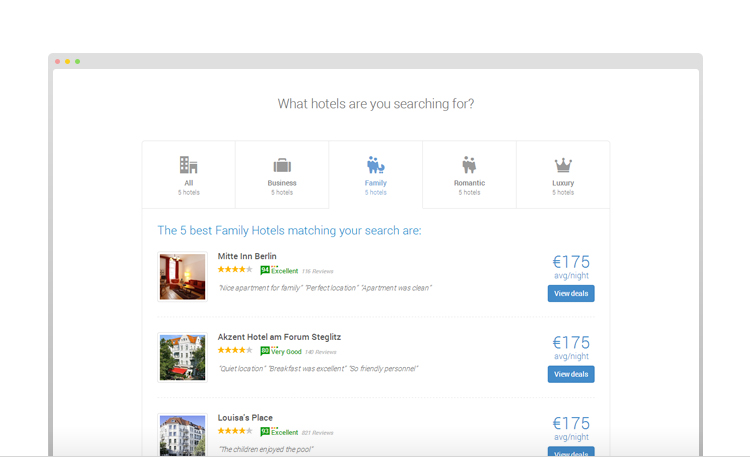
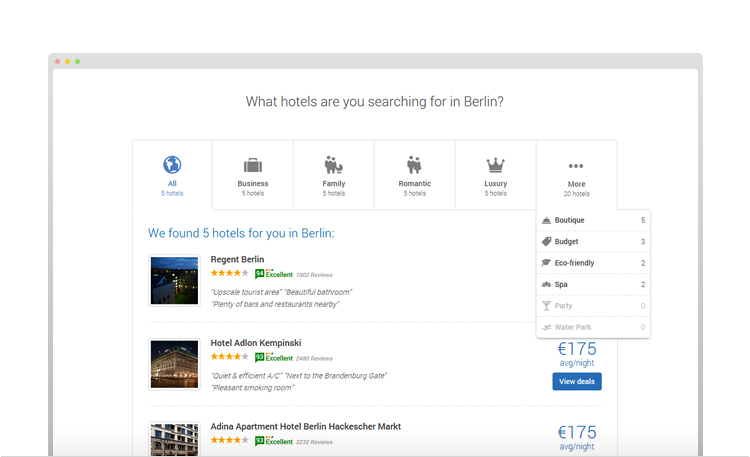
Preview image and disabled hotel types in dropdown
Updated preview image and added disabled hotel types in dropdown with
counter set to 0 (zero).

diff --git a/index.html b/index.html
@@ -128,6 +128,27 @@
 						<li>
 							<a href="#search-results-casino" data-toggle="tab"><span class="value">1</span><i class="ty-icon ty-icon-cards-full"></i> Casino</a>
 						</li>
+
+
+
+						<li class="disabled">
+							<a><span class="value">0</span><i class="ty-icon ty-icon-tree-palm"></i> Beach</a>
+						</li>
+						<li class="disabled">
+							<a><span class="value">0</span><i class="ty-icon ty-icon-golf"></i> Golf</a>
+						</li>
+						<li class="disabled">
+							<a><span class="value">0</span><i class="ty-icon ty-icon-group"></i> Resort</a>
+						</li>
+						<li class="disabled">
+							<a><span class="value">0</span><i class="ty-icon ty-icon-airplane"></i> Airport</a>
+						</li>
+						<li class="disabled">
+							<a><span class="value">0</span><i class="ty-icon ty-icon-lake-house"></i> Lake</a>
+						</li>
+						<li class="disabled">
+							<a><span class="value">0</span><i class="ty-icon ty-icon-swiming"></i> Water Park</a>
+						</li>
 					</ul>
 				</li>
 			</ul>

diff --git a/css/style.css b/css/style.css
@@ -199,6 +199,8 @@ a.verified-reviews:after {
 	left: -1px;
 	min-width: 220px;
 	z-index: 99;
+	max-height: 288px;
+	overflow: auto;
 }
 
 .dropdown-menu li {
@@ -214,6 +216,15 @@ a.verified-reviews:after {
 	cursor: pointer;
 	padding: 10px 10px 10px 35px;
 	white-space: normal;
+}
+
+.dropdown-menu > li.disabled > a,
+.dropdown-menu > li.disabled > a:hover,
+.dropdown-menu > li.disabled > a:active,
+.dropdown-menu > li.disabled > a .ty-icon,
+.dropdown-menu > li.disabled > a:hover .ty-icon,
+.dropdown-menu > li.disabled > a:active .ty-icon {
+	color: #ccc;
 }
 
 .dropdown-menu a .ty-icon {
